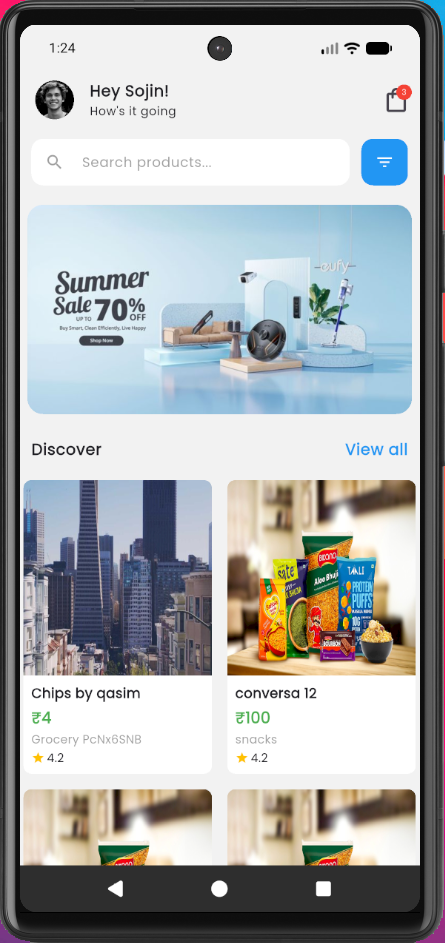
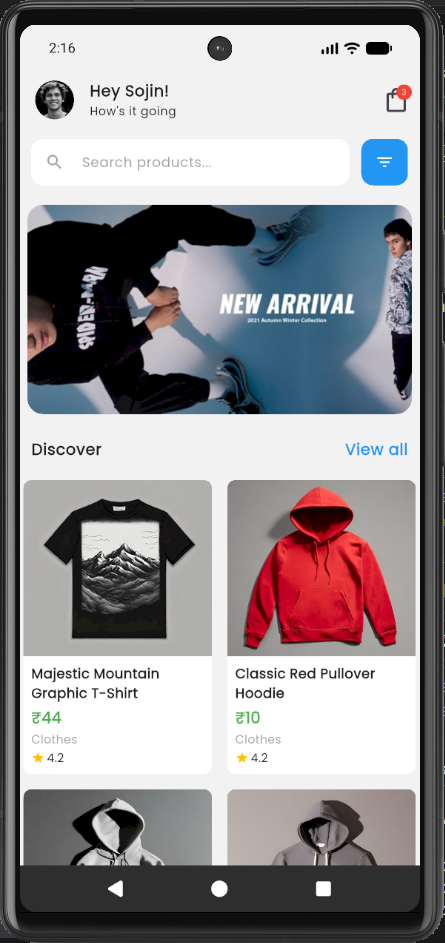
fix : updated img

diff --git a/lib/features/products/presentation/widgets/product_cards.dart b/lib/features/products/presentation/widgets/product_cards.dart
@@ -28,7 +28,7 @@ class ProductCard extends StatelessWidget {
                   top: Radius.circular(8),
                 ),
                 child: CachedNetworkImage(
-                  imageUrl: product.category.image,
+                  imageUrl: product.images.first,
                   fit: BoxFit.fill,
                   width: double.infinity,
                   placeholder: (_, _) => const Center(
@@ -113,7 +113,7 @@ class ProductCard extends StatelessWidget {
                       top: Radius.circular(16),
                     ),
                     child: CachedNetworkImage(
-                      imageUrl: product.category.image,
+                      imageUrl: product.images.first,
                       fit: BoxFit.cover,
                       placeholder: (_, _) =>
                           const Center(child: CircularProgressIndicator()),
